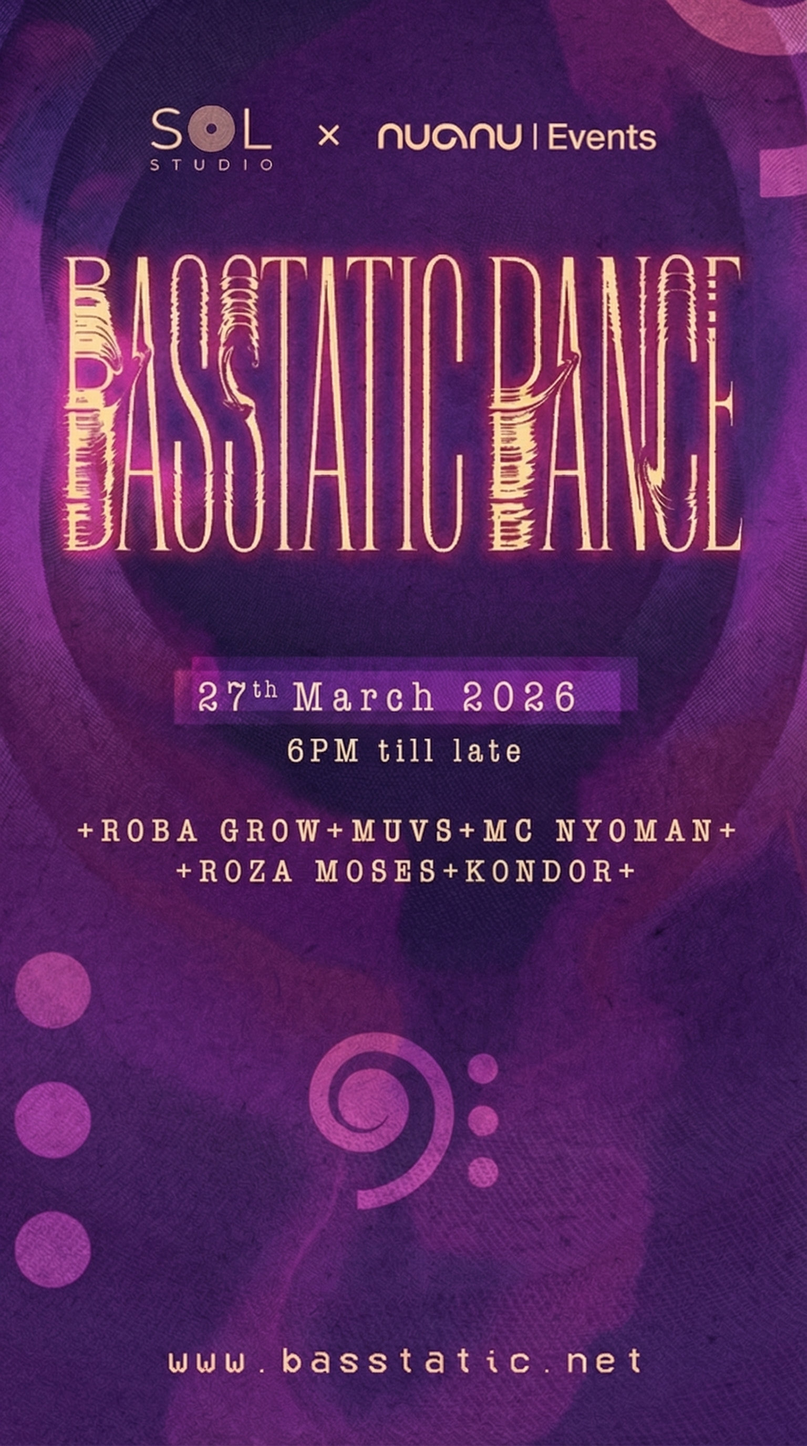
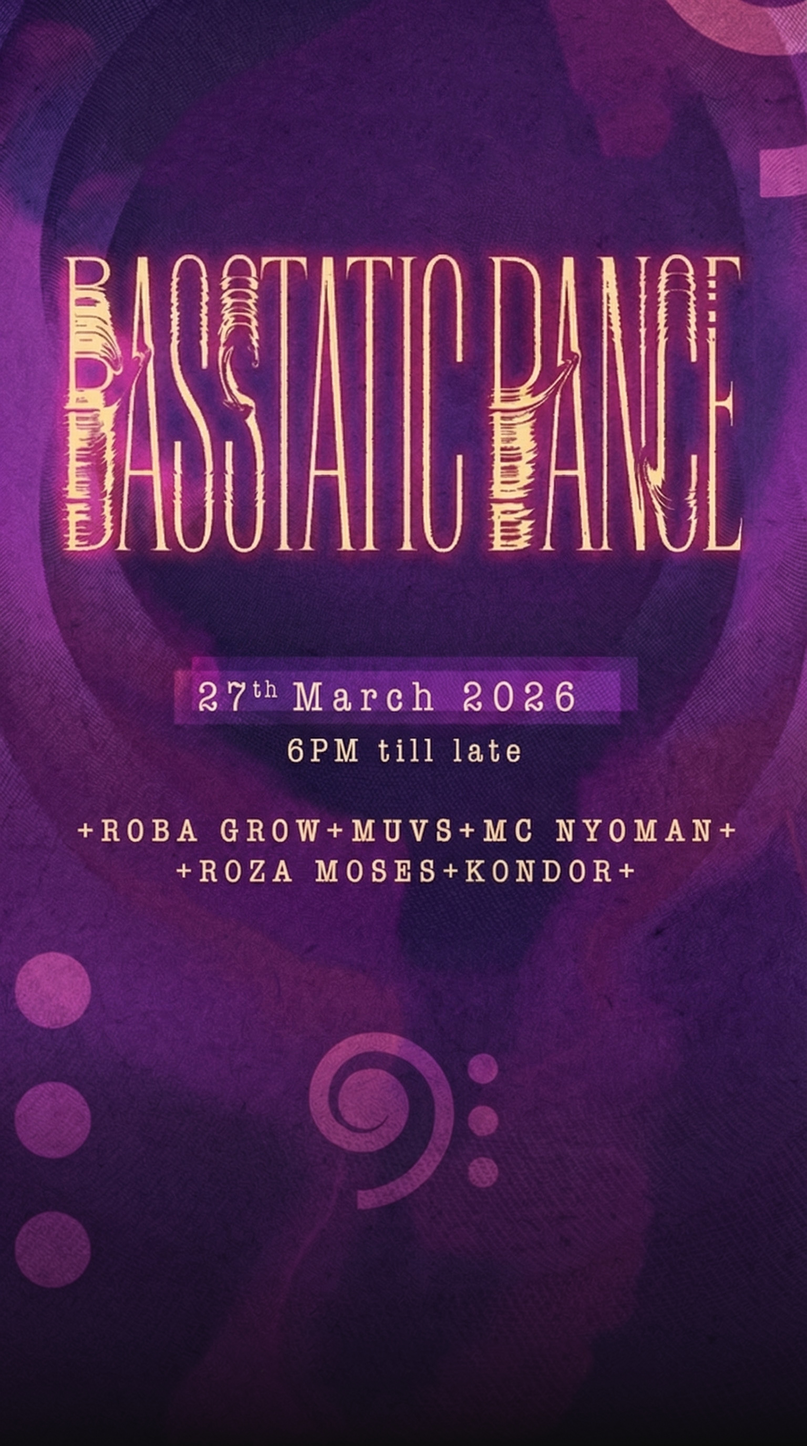
Move Get Tickets button back to hero, update poster image

Changed region(s): [[0.0, 0.7188, 1.0, 1.0], [0.4688, 0.0625, 0.8125, 0.125], [0.1875, 0.0625, 0.3438, 0.125]]

diff --git a/index.html b/index.html
@@ -31,6 +31,9 @@
     <div class="hero__poster">
       <img src="/media/events/3/poster.jpeg" alt="BASSTATIC: Chapter Three">
     </div>
+    <div class="hero__content">
+      <a href="https://megatix.co.id/events/basstatic-chapter-3" target="_blank" rel="noopener" class="btn btn--primary">Get Tickets</a>
+    </div>
   </section>
 
   <!-- EVENT SUMMARY -->
@@ -43,7 +46,6 @@
     <p class="section__text" style="max-width:640px;margin:12px auto 0;">
       An evening of deep bass and conscious movement. UK Garage, Dubstep, Jungle &amp; Drum and Bass with Roba Grow, Muvs, Roza Moses, Kondor and MC Nyoman.
     </p>
-    <a href="https://megatix.co.id/events/basstatic-chapter-3" target="_blank" rel="noopener" class="btn btn--primary" style="margin-top:24px;">Get Tickets</a>
   </section>
 
   <!-- LINEUP -->
